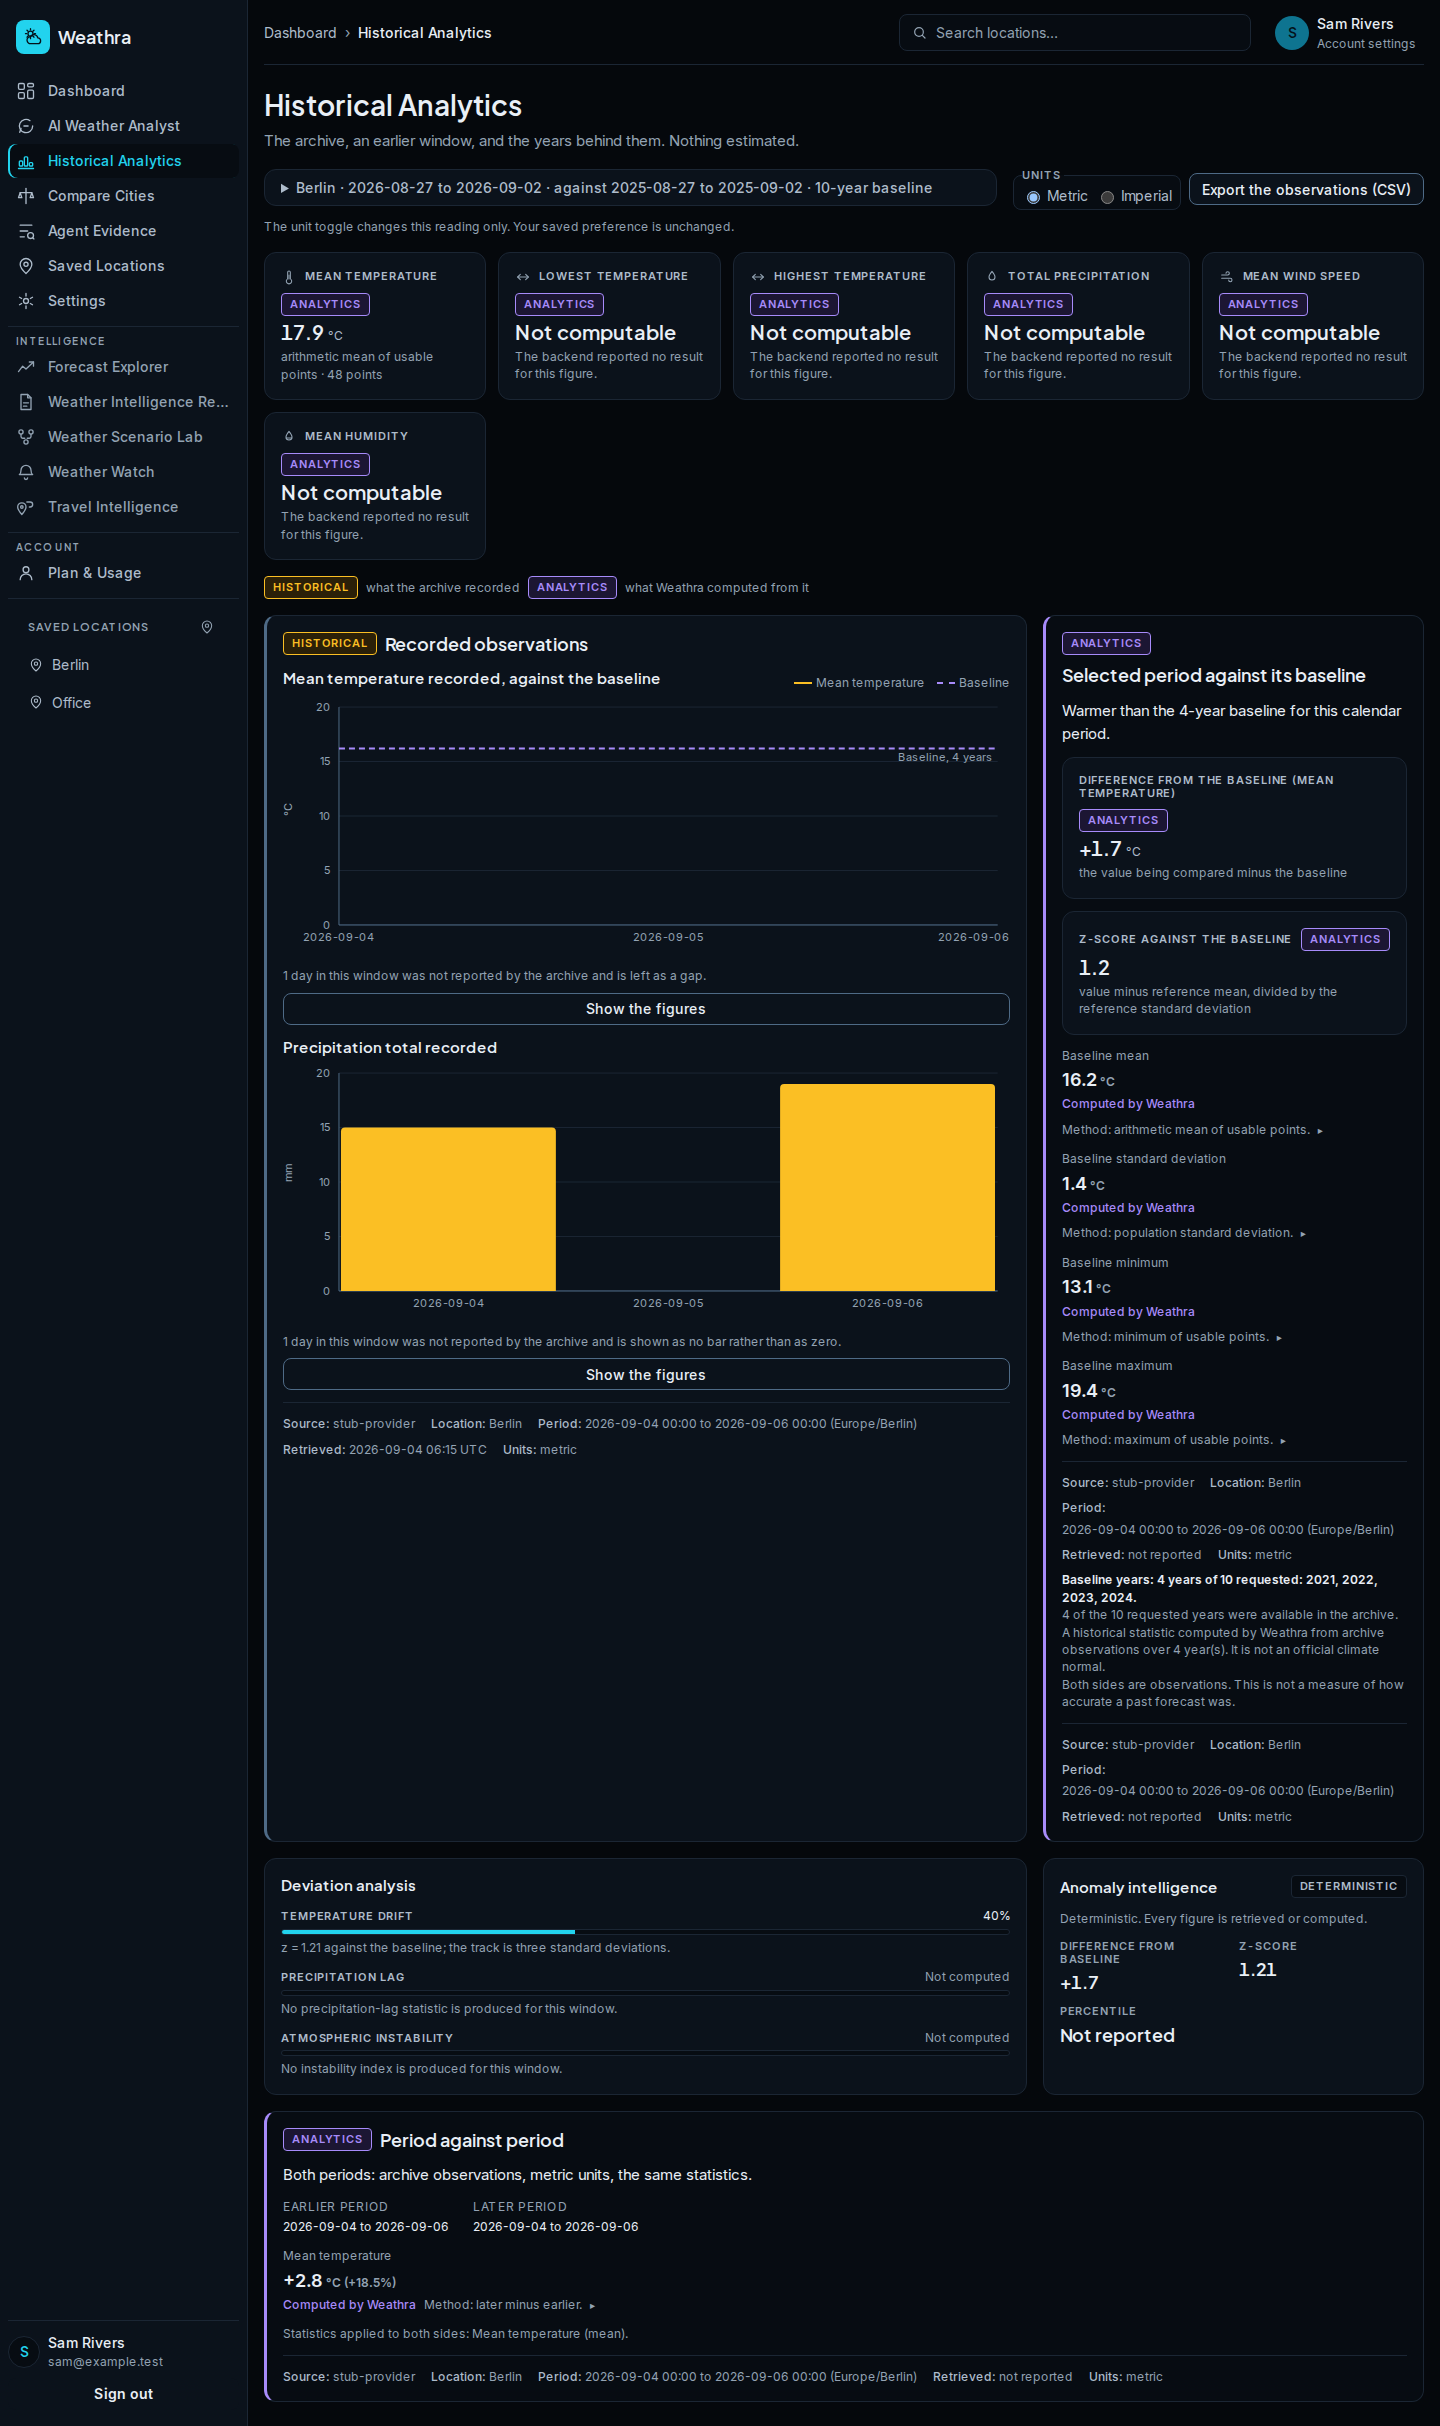
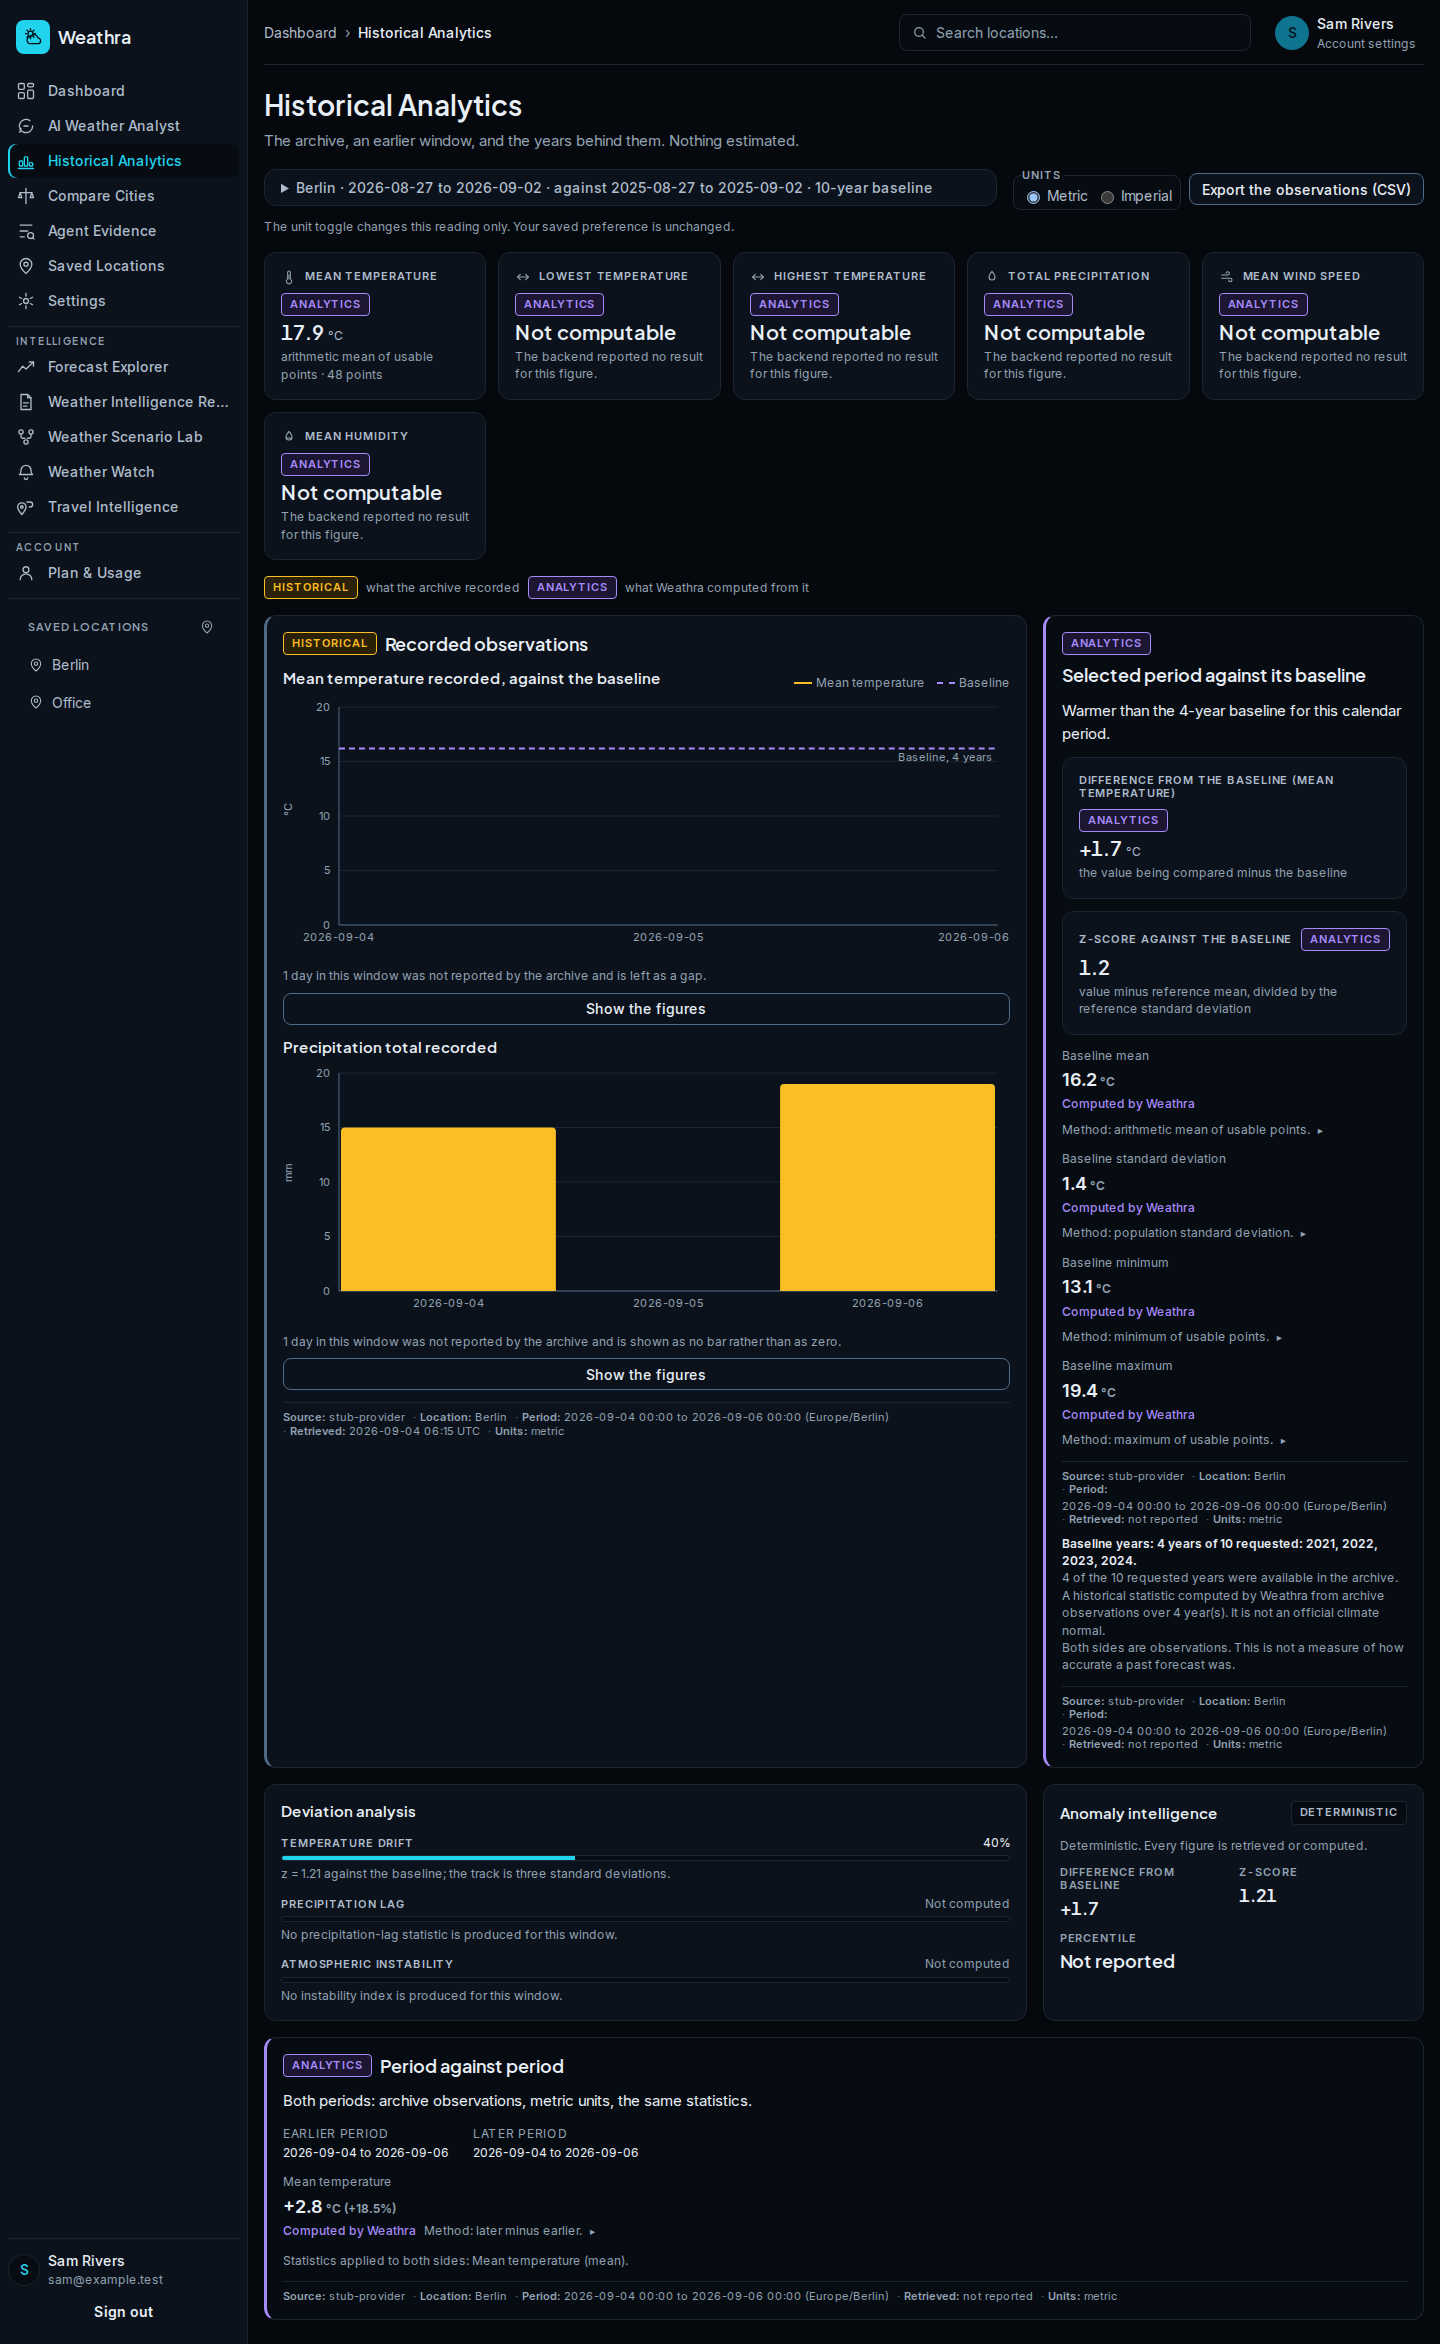
docs(design): review the fifteen screens against photographs, not source
`production-fidelity-review.md` classifies every screen from a capture of the
real build: 5 CLOSE, 7 ACCEPTABLE DIVERGENCE, 1 NOT CLOSE, 2 not reviewed. A
route that resolves is not CLOSE, and the table says which is which and why.

The stub now models `/me/usage` and `/me/watches`, so Plan & Usage and Weather
Watch photograph as themselves rather than as their error states — the first
Plan capture was a red box saying the stub did not model the endpoint, which is
useless as evidence of anything.

Also fixes a copy bug the capture found: a watch never checked read "Checked
not checked yet." It now says it will be checked next time the screen opens,
which is both grammatical and the actual semantics.

diff --git a/weathra/frontend/components/watch/watch.test.tsx b/weathra/frontend/components/watch/watch.test.tsx
@@ -119,10 +119,10 @@ describe("the watch list", () => {
     // what matters is that neither reads as "Not met".
     expect(screen.getAllByText("No reading").length).toBeGreaterThanOrEqual(1);
     const rows = screen.getAllByRole("listitem");
-    const silent = rows.find((row) => /not checked yet/.test(row.textContent ?? ""));
+    const silent = rows.find((row) => /Not checked yet/.test(row.textContent ?? ""));
     expect(within(silent as HTMLElement).getByText("No reading")).toBeInTheDocument();
     expect(within(silent as HTMLElement).queryByText("Not met")).toBeNull();
-    expect(screen.getByText(/not checked yet/)).toBeInTheDocument();
+    expect(screen.getByText(/Not checked yet/)).toBeInTheDocument();
   });
 
   it("checks one watch on request", async () => {

diff --git a/weathra/frontend/components/watch/watch.tsx b/weathra/frontend/components/watch/watch.tsx
@@ -86,10 +86,13 @@ function WatchRow({
       </p>
 
       <p className={styles.watchState}>
-        {watch.last_value === null || watch.last_value === undefined
-          ? "No reading at the last check."
-          : `Last reading ${watch.last_value}.`}{" "}
-        Checked {when(watch.last_evaluated_at)}.
+        {watch.last_evaluated_at
+          ? `${
+              watch.last_value === null || watch.last_value === undefined
+                ? "No reading at the last check"
+                : `Last reading ${watch.last_value}`
+            }. Checked ${when(watch.last_evaluated_at)}.`
+          : "Not checked yet. It will be, next time you open this screen."}
       </p>
 
       <div className={styles.watchActions}>

diff --git a/weathra/frontend/tests/e2e/capture.spec.ts b/weathra/frontend/tests/e2e/capture.spec.ts
@@ -27,6 +27,11 @@ const SCREENS = [
   { name: "07-settings", path: "/settings" },
   { name: "10-plan", path: "/plan" },
   { name: "11-explorer", path: "/explorer" },
+  { name: "12-report", path: "/report" },
+  { name: "13-scenarios", path: "/scenarios" },
+  { name: "14-watch", path: "/watch" },
+  { name: "15-travel", path: "/travel" },
+  { name: "05-evidence", path: "/evidence" },
 ] as const;
 
 test.describe("capture", () => {

diff --git a/weathra/docs/design/production-fidelity-review.md b/weathra/docs/design/production-fidelity-review.md
@@ -1,0 +1,74 @@
+# Production fidelity review — the fifteen screens against their artifacts
+
+**Date:** 2026-09-10 · **Reviewer:** Claude Opus 5 · **Method:** screenshots of the real production
+build, not source reading.
+
+Thirteen screens were photographed at 1440 px by `frontend/tests/e2e/capture.spec.ts`, which runs
+`next build` and drives the shipping bundle against the two offline stubs the browser suite already
+uses. Every line of Weathra in the path is the one that deploys; only Supabase Auth and the FastAPI
+backend are stood in for. Run it with `WEATHRA_CAPTURE=true npx playwright test capture.spec.ts`.
+
+**Two screens are judged from source rather than a photograph**, and are marked so below:
+Authentication, which the capture harness signs through rather than photographs, and the
+administrative screen, whose panels the stub does not model.
+
+**The classification is about composition, not existence.** A route that resolves is not CLOSE. A
+screen is CLOSE when its regions, hierarchy and graphical weight read as the artifact's; ACCEPTABLE
+DIVERGENCE when it differs for a recorded reason — almost always because the artifact draws
+something Weathra does not have; NOT CLOSE when the artifact's own composition has not been built.
+
+---
+
+## The table
+
+| # | Screen | Route | Artifact | Fidelity | Real data | Graphical components | Deliberate divergence | Remaining |
+|---|---|---|---|---|---|---|---|---|
+| 01 | Dashboard | `/` | `01-dashboard.png` | **ACCEPTABLE DIVERGENCE** | current, forecast, changes, analysis, baseline, saved locations | Photographic hero, metric cluster, confidence meters, day strip, intra-day chart, baseline chart | Station id, neural agent version, model-convergence and data-reliability percentages, integrated-risk index, system hash, version string — none exist | Column voids where one column outruns the other; the precipitation panel is prose where the artifact is graphical |
+| 02 | AI Weather Analyst | `/analyst` | `02-ai-weather-analyst.png` | **ACCEPTABLE DIVERGENCE** | agent run, evidence, memory | Composer with focus/units/depth chips, suggested prompts, run-detail rail | No agent version string; no History control, since no screen lists threads | Populated state not photographed — it needs a live model call |
+| 03 | Historical Analytics | `/historical` | `03-historical-analytics.png` | **CLOSE** | archive observations, deterministic analytics, baseline, period comparison | Two Recharts charts (line + bars), KPI cards, z-score, deviation meter, CSV export | Two charts rather than one dual-axis; no WMO/ERA5 badge | "Not computable" cards are the stub's thin data, not a defect |
+| 04 | Compare Cities | `/compare` | `04-compare-cities.png` | **ACCEPTABLE DIVERGENCE** | `/weather/comparison` ranking with supporting statistics | City cards, ranked bars, delta chart | Synthesis-confidence, correlation-score and data-density bars refused; candlestick panel refused | Historical comparison per city not surfaced |
+| 05 | Agent Evidence | `/evidence` | `05-agent-evidence.png` | **ACCEPTABLE DIVERGENCE** | stored agent run: steps, tools, citations, grounding | Execution timeline, source cards, grounding panel | No audit hash, no signature, no stability index, no invented station ids | Only the empty state photographed; a populated trace needs a live run |
+| 06 | Saved Locations | `/locations` | `06-saved-locations.png` | **CLOSE** | saved locations, `/weather/current` per card | Cards with live conditions, allowance meter, workspace summary | No map | — |
+| 07 | Settings | `/settings` | `07-settings.png` | **CLOSE** | preferences, saved locations | Tabs, segmented unit control, selects, save/discard/reset | Only supported preferences are offered | — |
+| 08 | Authentication | `/sign-in` | `08-authentication.png` | **NOT REVIEWED** | Supabase Auth | Centred card, light appearance | No plan selection at signup: a plan is not an identity | Not photographed; the fidelity pass has not been done |
+| 09 | Admin Model & AI Usage | `/admin/model-usage` | `09-admin-model-ai-usage.png` | **NOT CLOSE** | policies, catalog with observations, comparison runs, policy audit | One panel: the audited policy confirmation | Fictional model rows, composite scores, export and audit controls refused | KPI cards, token/cost chart, model table, errors panel not built |
+| 10 | Plan & Usage | `/plan` | `10-plan-usage.png` | **CLOSE** | `/me/usage`: plan, per-dimension allowance, reset windows, recent activity | Metric tiles, allowance meters, tier list, reset schedule | The whole billing half refused — no subscription id, interval, payment method, invoice or upgrade; no per-day chart, because `recent` is a summary and not a series | — |
+| 11 | Forecast Explorer | `/explorer` | `11-forecast-explorer.png` | **CLOSE** | current, forecast, analysis | Metric row, horizon control, forecast chart, hourly matrix | ECMWF source line, neural agent, convergence/alignment/grounding scores, reliability card, sensor nodes, encryption banner — none exist | — |
+| 12 | Weather Intelligence Report | `/report` | `12-weather-intelligence-report.png` | **ACCEPTABLE DIVERGENCE** | current, forecast, changes, analysis, baseline, agent | Sectioned report, metric grids, day cards | Synthesis is a control, not a page-load model call; no agent version, no evidence-node count, no PDF export | Fewer charts than the artifact |
+| 13 | Weather Scenario Lab | `/scenarios` | `13-weather-scenario-lab.png` | **ACCEPTABLE DIVERGENCE** | `/weather/scenario` over a real forecast | Assumption inputs, scenario chart, delta cards | Session id, DELTA-INFERENCE-V4, station id, stability index, inference confidence, simulation engine, what-if deltas, report export, correlation model, node counts — none exist | Inputs are numeric fields rather than the artifact's sliders |
+| 14 | Weather Watch | `/watch` | `14-weather-watch.png` | **CLOSE** | `weather_watches` + forecast evaluation | Summary tiles, watch list with three distinct states, create form | Watch engine, monitoring nodes, recalibration, sensor telemetry, push alerts, live status light — Weathra has no scheduler and sends nothing | No graphical weather context beside the list |
+| 15 | Travel Intelligence | `/travel` | `15-travel-intelligence.png` | **ACCEPTABLE DIVERGENCE** | `/weather/comparison` day ranking with contributions | Ranked day cards, score meters, contribution disclosure | Flight stability, airline operations, departure boards, booking, sensor telemetry, model convergence — Weathra knows none of them | No destination hero imagery |
+
+**Totals:** 5 CLOSE · 7 ACCEPTABLE DIVERGENCE · 1 NOT CLOSE · 2 NOT REVIEWED.
+
+---
+
+## What the review changed
+
+Photographing the build rather than reading it overturned the first diagnosis. The Dashboard was
+assumed to be missing the artifact's composition; it already had every band. What it had instead was
+**eight provenance blocks down one page**, each two wrapped lines of bold terms at body size, taking
+more vertical space than the figures they described. `specs/web-ui` requires the provider, location,
+period and retrieval time wherever weather is shown, so all four stayed — at label weight, as one
+middot-separated footnote. That single change in the primitive shortened the page and applied to
+every screen at once.
+
+The same method found that Saved Locations displayed `Berlin, Berlin, DE` — the geocoder's
+round-trip form, never meant to be read — and carried no weather at all.
+
+## The standing rule about the artifacts
+
+Every screen's divergences are refusals of content Weathra does not have, and they are recorded per
+screen in `screens.md` §5 and §8 rather than discovered per reviewer. The pattern across all
+fifteen is one thing: the artifacts draw an infrastructure — sensor networks, named forecast models,
+neural agents, convergence percentages, encryption banners, node counts — that this product does not
+own. Weathra reads one weather provider and one model gateway. Where a panel's slot is real and its
+content is not, the slot is filled with what Weathra actually knows; where the whole panel is
+invented, it is absent rather than styled out of sight.
+
+## Known limits of this review
+
+* One width only. The responsive pass at 1024, 768 and 375 has not been done.
+* Populated states for the Analyst and Agent Evidence need a live model run and were not captured.
+* The stub's data is thinner than production's, so empty states appear more often here than a person
+  with real saved places would see.
